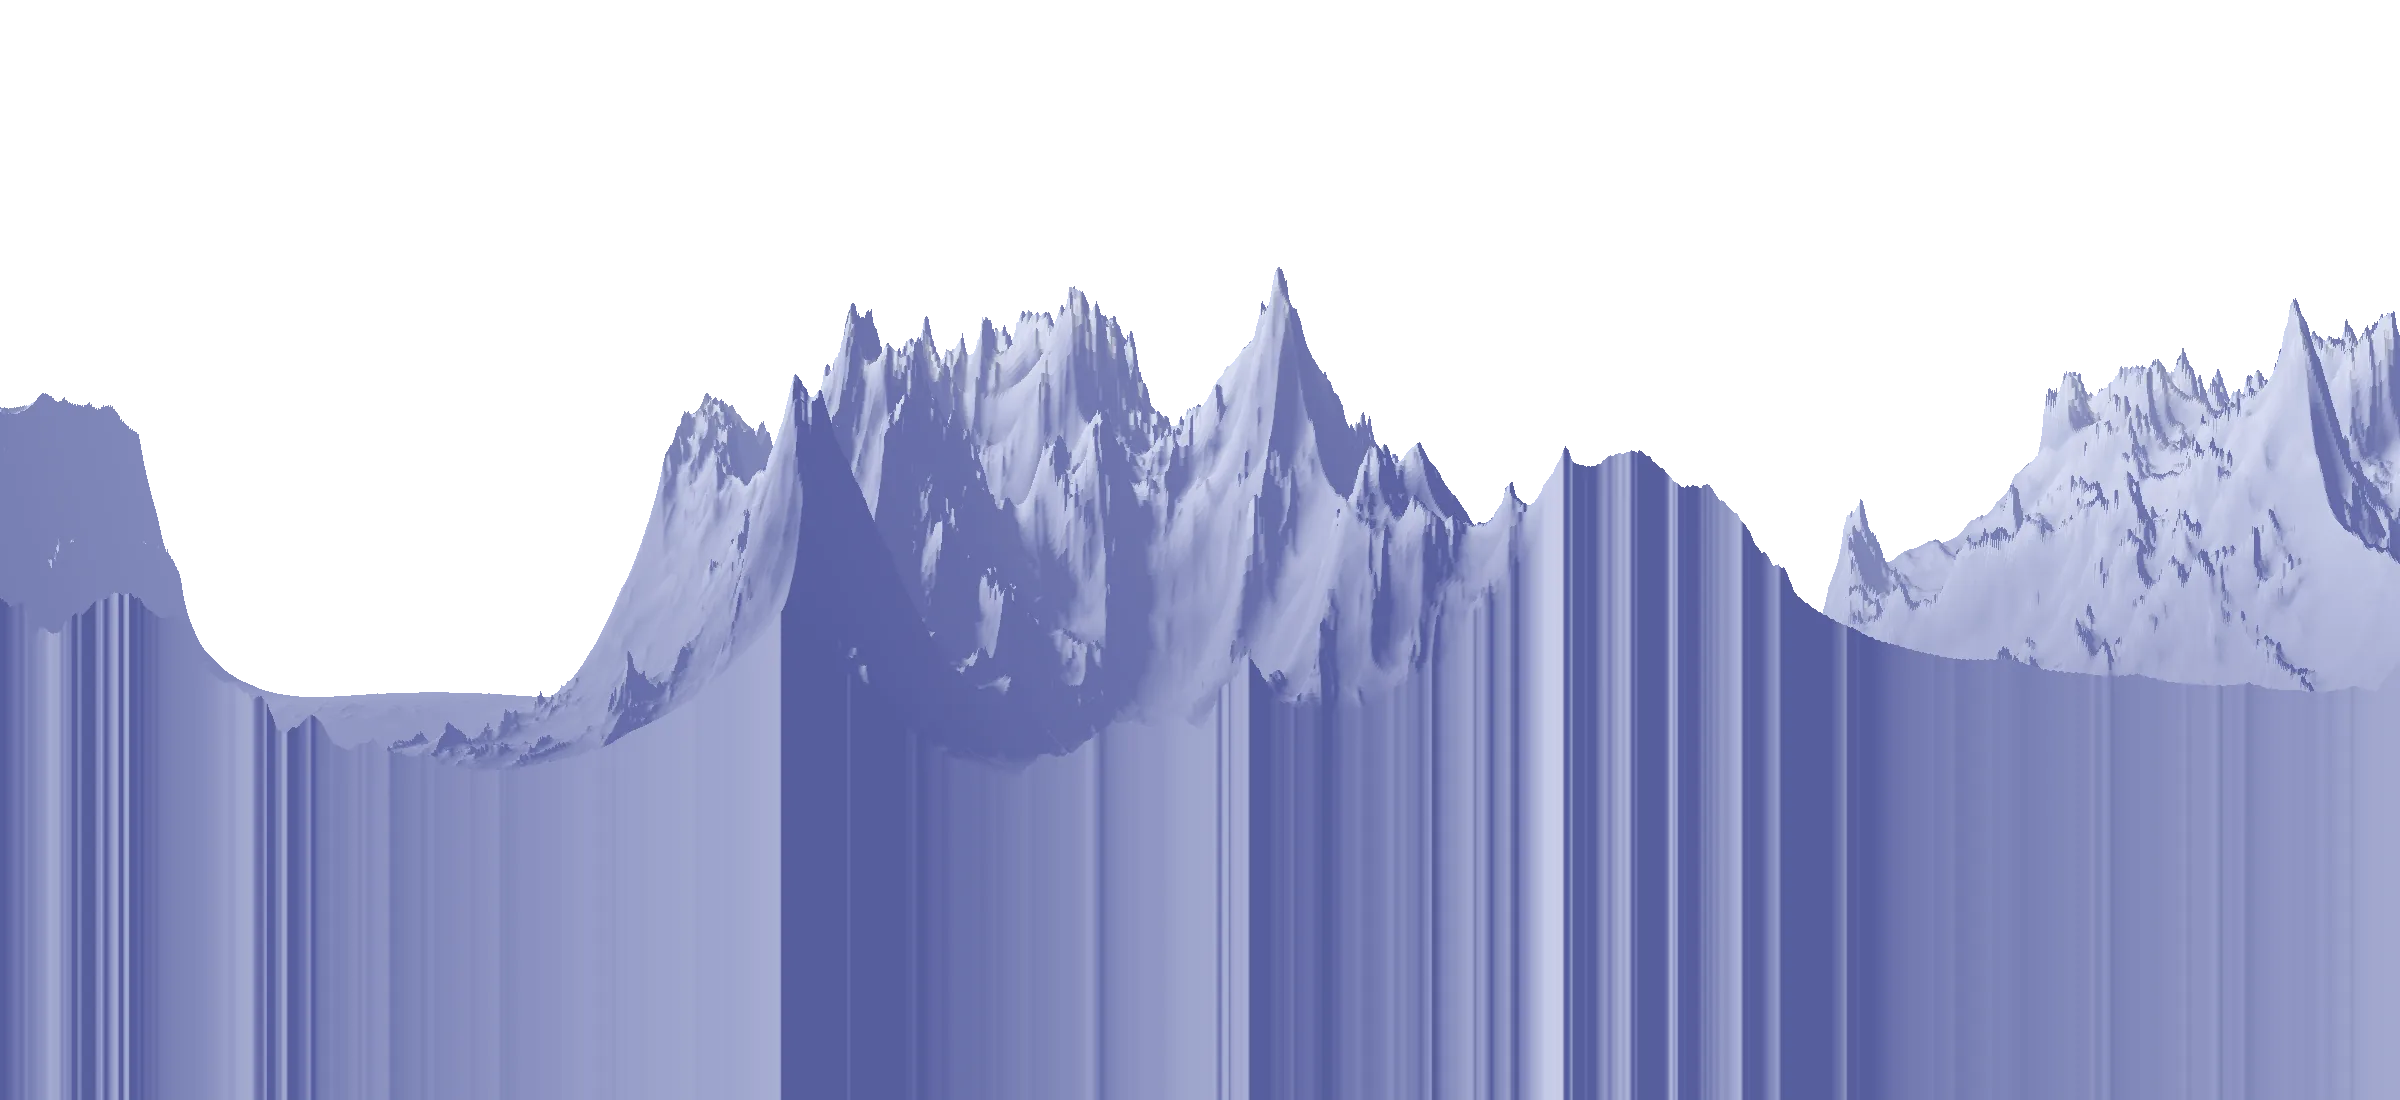
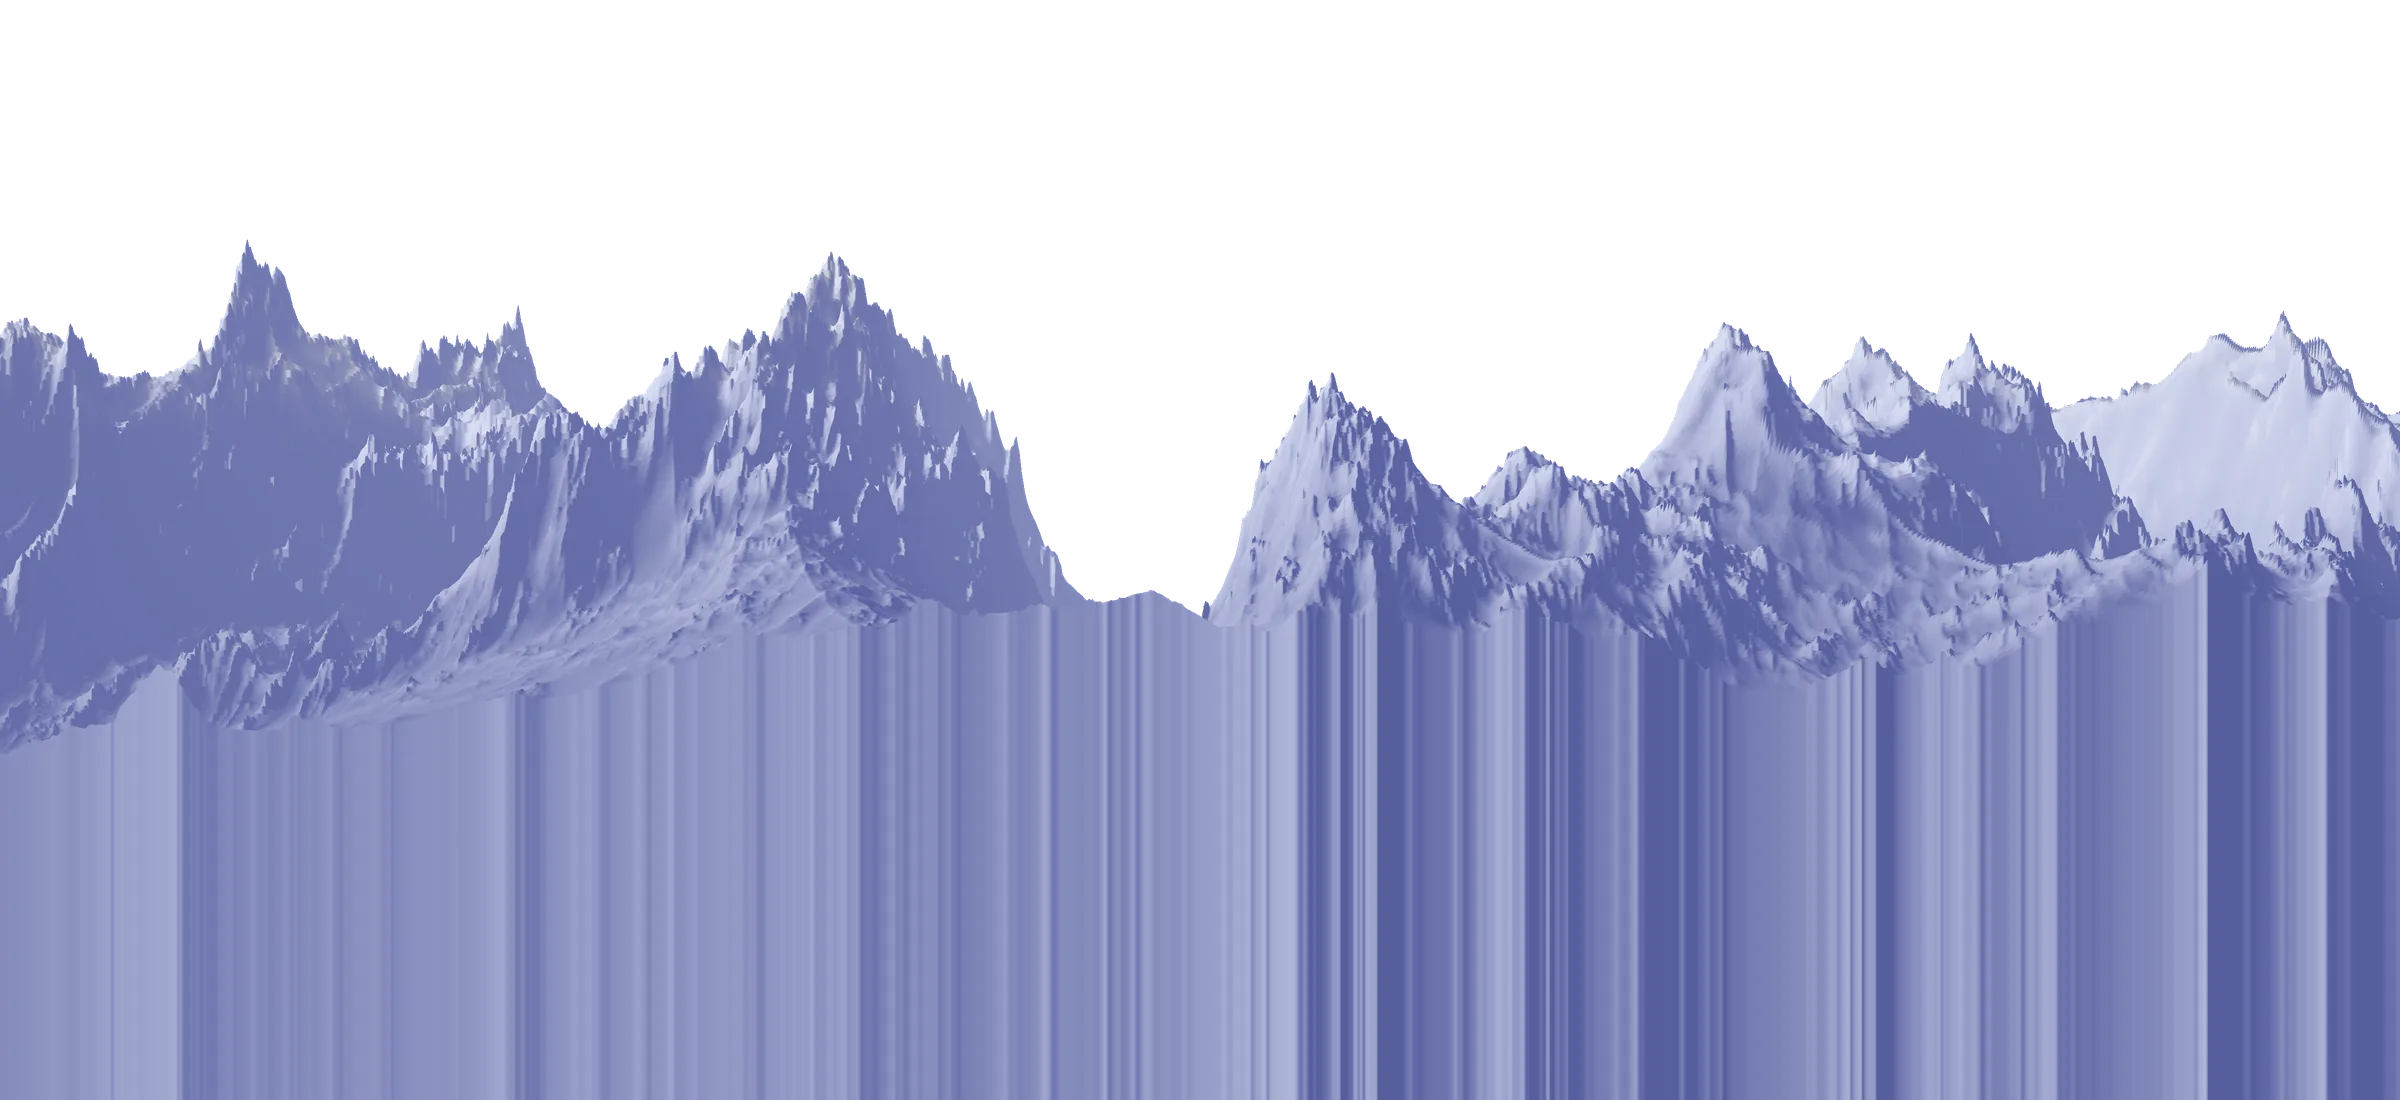
Cleaner mountain silhouette; keep the hero copy on clear sky
Render the terrain at 2x and downsample for smooth ridgelines, and make
the ridge noise two tiles wide so it never folds back on itself (that fold
was the flat-topped cliff on the left). The world now lowers the range so
the highest on-screen peak sits just under the hero copy, then lets it
rise as the hero scrolls away.

diff --git a/src/components/world/World.tsx b/src/components/world/World.tsx
@@ -47,7 +47,7 @@ export default function World() {
     const LAMP = rgb("--lamp");
     const mix = (a: number[], b: number[], k: number) => a.map((v, i) => Math.round(v + (b[i] - v) * k));
 
-    let W = 0, H = 0, dots: Dot[] = [], frame = 0, g = 0;
+    let W = 0, H = 0, dots: Dot[] = [], frame = 0, g = 0, push = 0, heroH = 1;
     const mouse = { x: -1e4, y: -1e4 };
 
     // layer images are max(100vw, SPAN × vh) wide, bottom-aligned, centred
@@ -72,6 +72,18 @@ export default function World() {
       const dpr = Math.min(2, window.devicePixelRatio || 1);
       W = window.innerWidth;
       H = window.innerHeight;
+      // keep the hero copy clear: lower the range until its highest peak
+      // sits just under the copy, then let it rise as the hero scrolls away
+      const copy = document.querySelector(".hero-copy")?.getBoundingClientRect();
+      const hero = document.querySelector<HTMLElement>(".hero");
+      heroH = hero?.offsetHeight || H;
+      // the highest point of the range that's actually on screen
+      const { ih } = size();
+      const [v0, v1] = span();
+      const last = terrain.skyline.length - 1;
+      const top = Math.min(...terrain.skyline.slice(Math.max(0, Math.floor(v0 * last)), Math.min(last, Math.ceil(v1 * last)) + 1));
+      const peak = H - ih + top * ih + OFFSET * H;
+      push = copy ? Math.min(H * 0.5, Math.max(0, copy.bottom + window.scrollY + 28 - peak)) : 0;
       cv.width = W * dpr;
       cv.height = H * dpr;
       ctx.setTransform(dpr, 0, 0, dpr, 0, 0);
@@ -96,7 +108,8 @@ export default function World() {
       const dusk = ease(clamp((g - 0.55) / 0.4));
       el.style.setProperty("--dusk", dusk.toFixed(3));
       document.documentElement.style.setProperty("--g", g.toFixed(4));
-      const lift = (i: number) => (reduce ? OFFSET : OFFSET - g * RISE[i]) * H;
+      const away = reduce ? 0 : ease(clamp(window.scrollY / heroH));
+      const lift = (i: number) => (reduce ? OFFSET : OFFSET - g * RISE[i]) * H + push * (1 - away);
       layers.forEach((l, i) => { l.style.transform = `translate3d(0, ${lift(i).toFixed(1)}px, 0)`; });
       const townLift = lift(3);
 

diff --git a/scripts/terrain.py b/scripts/terrain.py
@@ -18,7 +18,9 @@ import os
 import numpy as np
 from PIL import Image, ImageFilter
 
-W, H = 2400, 1100           # output frame
+OUT_W, OUT_H = 2400, 1100   # output frame
+SS = 2                       # render at 2× and scale down: smooth ridgelines
+W, H = OUT_W * SS, OUT_H * SS
 HORIZON = 0.56 * H          # horizon row
 F = W * 0.95                # focal length in px
 CAM_H = 0.075               # camera height
@@ -32,18 +34,19 @@ BANDS = [(ZMIN, 0.2), (0.2, 0.42), (0.42, 0.8), (0.8, ZMAX)]
 rng = np.random.default_rng(SEED)
 
 
-def upsample(grid, n):
-    return np.asarray(Image.fromarray(grid.astype(np.float32), "F").resize((n, n), Image.BICUBIC))
+def upsample(grid, n, wide=1):
+    return np.asarray(Image.fromarray(grid.astype(np.float32), "F").resize((n * wide, n), Image.BICUBIC))
 
 
-def ridged(n, octaves=9, base=3):
-    """Ridged multifractal: sharp crests that get rougher where they're high."""
-    h = np.zeros((n, n), np.float32)
-    weight = np.ones((n, n), np.float32)
+def ridged(n, octaves=9, base=3, wide=1):
+    """Ridged multifractal: sharp crests that get rougher where they're high.
+    `wide` makes the map that many tiles across."""
+    h = np.zeros((n, n * wide), np.float32)
+    weight = np.ones((n, n * wide), np.float32)
     amp = 1.0
     for o in range(octaves):
-        g = rng.random((base * 2 ** o + 1,) * 2) * 2 - 1
-        r = 1 - np.abs(upsample(g, n))
+        g = rng.random((base * 2 ** o + 1, base * 2 ** o * wide + 1)) * 2 - 1
+        r = 1 - np.abs(upsample(g, n, wide))
         r = r * r * weight
         weight = np.clip(r * 2.0, 0, 1)
         h += r * amp
@@ -52,12 +55,12 @@ def ridged(n, octaves=9, base=3):
 
 
 def bilinear(a, x, z):
-    """Sample a (z rows, x cols) at fractional coords in 0..1 (x wraps)."""
-    n = a.shape[0]
-    fx = (x % 1.0) * (n - 1)
-    fz = np.clip(z, 0, 1) * (n - 1)
+    """Sample a (z rows, x cols) at fractional coords in 0..1."""
+    nz, nx = a.shape
+    fx = np.clip(x, 0, 1) * (nx - 1)
+    fz = np.clip(z, 0, 1) * (nz - 1)
     x0 = np.floor(fx).astype(int); z0 = np.floor(fz).astype(int)
-    x1 = np.minimum(x0 + 1, n - 1); z1 = np.minimum(z0 + 1, n - 1)
+    x1 = np.minimum(x0 + 1, nx - 1); z1 = np.minimum(z0 + 1, nz - 1)
     tx = fx - x0; tz = fz - z0
     return (a[z0, x0] * (1 - tx) * (1 - tz) + a[z0, x1] * tx * (1 - tz)
             + a[z1, x0] * (1 - tx) * tz + a[z1, x1] * tx * tz)
@@ -77,9 +80,9 @@ TOWN_LIT = hexrgb("#2A3592")
 
 # terrain: ridged peaks scaled by distance (low foothills near, a high
 # snowy range far), plus a gentle base so the valley floor isn't flat
-ridge = ridged(N)
+ridge = ridged(N, wide=2)
 # fine rock: high octaves only, added mostly on high ground
-rock = ridged(N, octaves=4, base=40)
+rock = ridged(N, octaves=4, base=40, wide=2)
 broad = upsample(rng.random((5, 5)), N)
 
 
@@ -97,14 +100,17 @@ def height(x, zz):
     zc = zz / ZMAX
     # a slow domain warp bends the ridges so they branch like eroded rock
     wx = (bilinear(broad, mirror(x * 0.8), zc) - 0.5) * 0.12
-    r = bilinear(ridge, mirror(x * 1.3 + wx), mirror(zc * 1.1 - wx))
+    # the ridge maps are two tiles wide, enough to span the whole view
+    # without folding back on themselves
+    u = (x * 1.3 + 0.5 + wx) / 2.3
+    r = bilinear(ridge, u, mirror(zc * 1.1 - wx))
     b = bilinear(broad, mirror(x * 0.6), zc)
     far = smooth(0.25, 1.4, zz)
     # foothills near the camera, rising to the high range at the back
     lift = 0.057 * (1 - smooth(0.1, 0.26, zz))
-    k = bilinear(rock, mirror(x * 1.3 + wx), mirror(zc * 1.1 - wx))
+    k = bilinear(rock, u, mirror(zc * 1.1 - wx))
     near = 1 - smooth(0.08, 0.3, zz)
-    return (r + 0.07 * k * r) * (0.03 * smooth(0.12, 0.35, zz) + 0.25 * far ** 1.2) + bilinear(ridge, mirror(x * 5), mirror(zc * 5)) * 0.007 * near + 0.02 * b * far + lift
+    return (r + 0.07 * k * r) * (0.03 * smooth(0.12, 0.35, zz) + 0.25 * far ** 1.2) + bilinear(ridge, mirror(x * 5) / 2, mirror(zc * 5)) * 0.007 * near + 0.02 * b * far + lift
 
 
 cols = np.arange(W)
@@ -161,18 +167,21 @@ for b in range(len(BANDS)):
     if b == 0:
         # the foreground is magnified; soften it so no texel streaks show, and
         # fade its lowest rows to solid ground so it meets the CSS below it
-        out = out.filter(ImageFilter.GaussianBlur(2))
+        out = out.filter(ImageFilter.GaussianBlur(2 * SS))
         px = np.asarray(out).astype(np.float32)
         t = smooth(0.82, 1.0, rows / H)[:, None, None]
         px[..., :3] = px[..., :3] + (TOWN_DARK * 255 - px[..., :3]) * t
         px[..., 3] = np.maximum(px[..., 3], 255 * (t[..., 0] >= 1))
         out = Image.fromarray(px.clip(0, 255).astype(np.uint8), "RGBA")
+    out = out.resize((OUT_W, OUT_H), Image.LANCZOS)
     out.save(
         f"public/terrain/layer-{len(BANDS) - 1 - b}.webp", quality=82, method=6)
 
 # crest of the town band, 240 samples across the frame, as fractions of H
 crest = cum[np.where(band_of == 0)[0][-1]]
 xs = np.linspace(0, W - 1, 240).astype(int)
-json.dump({"w": W, "h": H, "crest": [round(float(np.clip(crest[x], 0, H)) / H, 4) for x in xs]},
+# skyline of the whole range (its top edge), same sampling as the crest
+sky = cum[-1]
+json.dump({"w": OUT_W, "h": OUT_H, "skyline": [round(float(np.clip(sky[x], 0, H)) / H, 4) for x in xs], "crest": [round(float(np.clip(crest[x], 0, H)) / H, 4) for x in xs]},
           open("src/components/world/terrain.json", "w"))
 print("ok", [os.path.getsize(f"public/terrain/layer-{i}.webp") // 1024 for i in range(4)], "KB")
